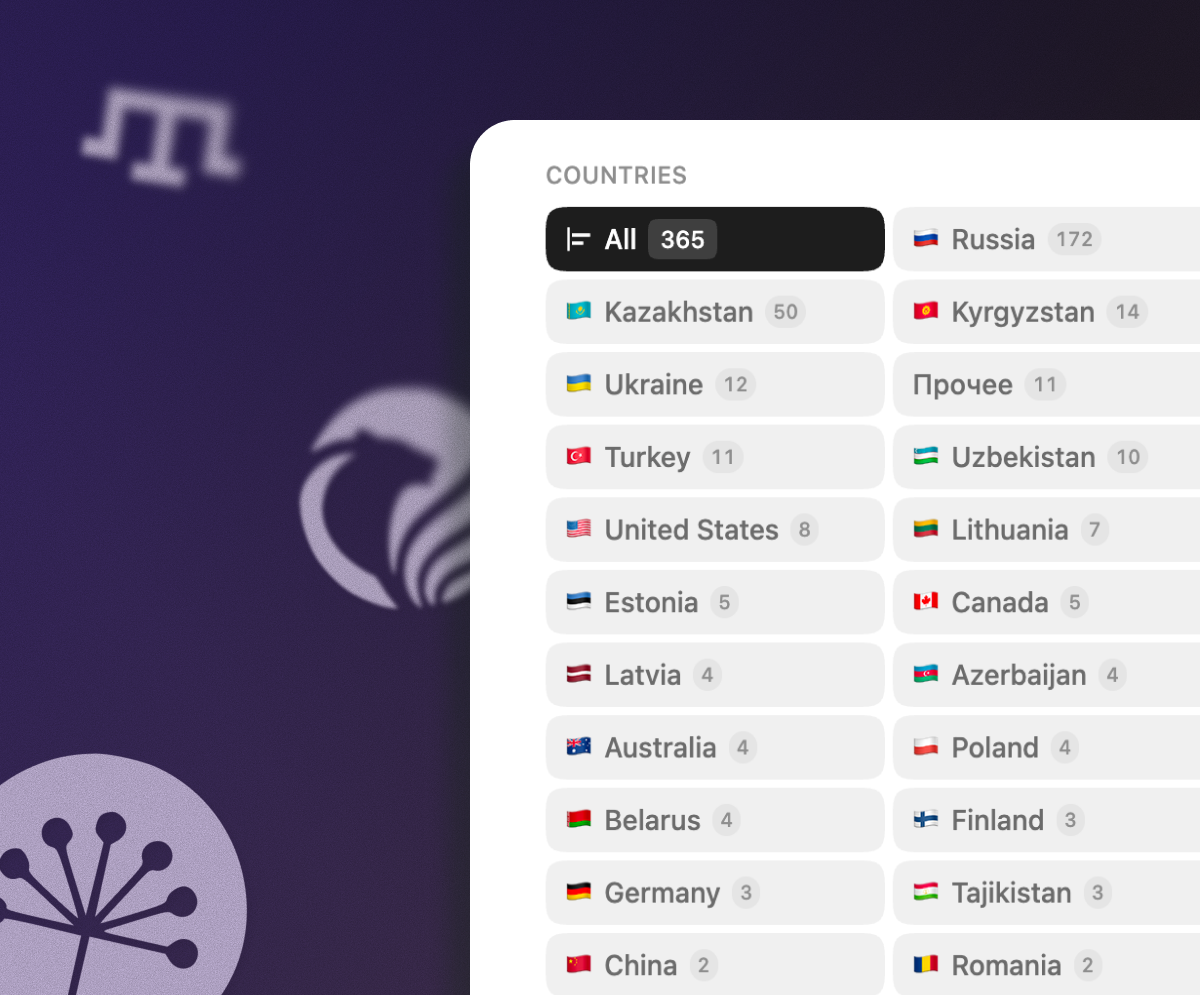
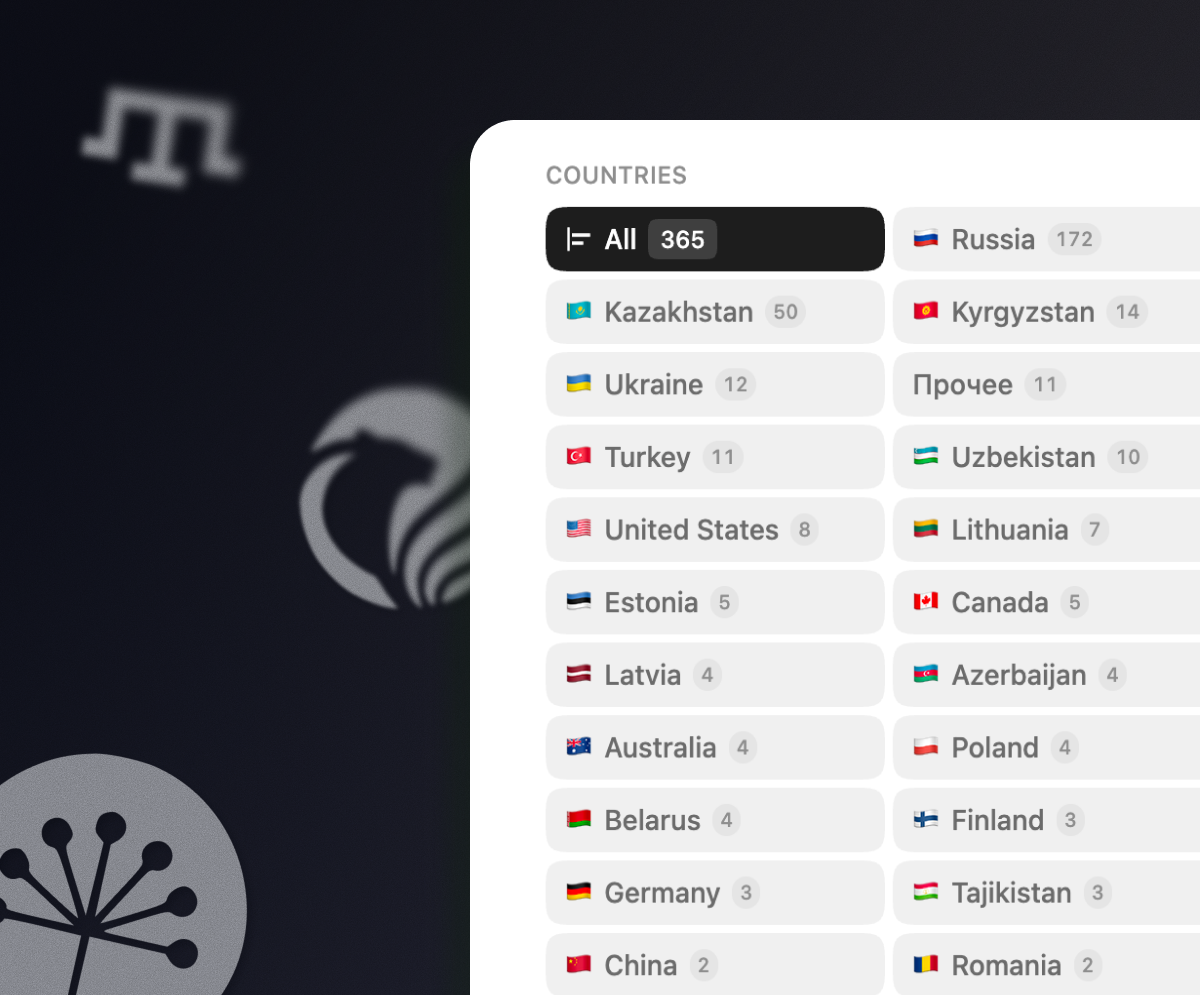
feat(home): тёмная тема по умолчанию, градиентная главная кнопка, тише моушен
Дефолт темы - dark вместо system: тёмная бумага с тинтом акцента это основной
вид сайта, и первый заход должен показывать его. Поправлены все три места,
где дефолт был записан: инлайн-скрипт в Layout, readTheme в appearance.ts и
запасной theme-color без JS. Манифест PWA переведён на тот же #0e1310 -
иначе установленное приложение открывалось бы светлым.

Главная кнопка «Посмотреть центры» - новый вариант ButtonLink `gradient`.
Градиент выводится из акцента, поэтому он свой у каждого из шести пресетов,
а правило одно. Второй конец не accent-vivid: тот дисплейный, ему хватает
3:1, и белый текст на нём падал до 3.35:1 в зелёном. Вместо этого акцент
уходит от собственного текста - углубляется тенью в светлой теме и
подсвечивается в тёмной. Худшая точка градиента 4.81:1 при пороге 4.5,
проверено по шести пресетам в обеих темах.

Кольцо карточки больше не переливается: угол зафиксирован на 135deg, свет
падает сверху слева как у теней. Удалены @property --card-ring-angle,
кейфреймы card-ring-spin и обе оговорки про моушен - тумблер и
prefers-reduced-motion кольцо теперь не прячут, двигаться в нём нечему,
а цвет и форму тумблер по общему правилу оставляет.

Из трёх слов второй строки героя дрейфует только «Культура.». «Язык.» и
«Люди.» получили тот же градиент неподвижным и позицию 50%, чтобы он стоял
по центру, а не обрезанным краем: три дрейфующих слова рядом читались как
мерцание строки, а не как акцент на одном.
[…]

diff --git a/src/styles/tailwind.css b/src/styles/tailwind.css
@@ -195,14 +195,24 @@
   /* Мягкое неоновое «дыхание»: ореол вокруг букв плавно ярче/тусклее.
      drop-shadow (не text-shadow) — работает по форме клипнутого градиентом
      текста. Цвет тянется из акцента, иначе ореол не переживёт смену темы. */
+  /* Дыхание акцентного слова героя. Амплитуда задана переменными, потому что
+     тёмная тема теперь дефолтная: на светлой бумаге ореол еле виден и ему
+     нужен размах, на тёмной тот же размах превращает слово в мигающую
+     вывеску. Значения для тёмной — ниже, в `.dark`. */
   @keyframes hero-pulse {
     0%,
     100% {
-      filter: drop-shadow(0 0 2px color-mix(in oklab, var(--color-accent-glow) 25%, transparent));
+      filter: drop-shadow(
+        0 0 var(--hero-pulse-min-blur, 2px)
+          color-mix(in oklab, var(--color-accent-glow) var(--hero-pulse-min, 25%), transparent)
+      );
     }
 
     50% {
-      filter: drop-shadow(0 0 10px color-mix(in oklab, var(--color-accent-glow) 65%, transparent));
+      filter: drop-shadow(
+        0 0 var(--hero-pulse-max-blur, 10px)
+          color-mix(in oklab, var(--color-accent-glow) var(--hero-pulse-max, 65%), transparent)
+      );
     }
   }
 
@@ -277,6 +287,15 @@
 
 .dark {
   color-scheme: dark;
+
+  /* Тёмная тема — дефолт сайта, и герой в ней виден сразу. Ореол вокруг
+     акцентного слова прижат: на тёмной бумаге свечение читается втрое
+     сильнее, чем на светлой, и прежние 25→65% превращали «своих» в
+     мигающую вывеску. Движение остаётся, громкость уходит. */
+  --hero-pulse-min: 12%;
+  --hero-pulse-max: 30%;
+  --hero-pulse-min-blur: 1px;
+  --hero-pulse-max-blur: 5px;
 
   /* Лестница: background 7% → muted 11% → surface 16% → surface-muted 19% → subtle 22%.
      Шаг background→surface — главный носитель глубины в тёмной теме и
@@ -506,38 +525,21 @@
    отрицательный слой всплывает поверх её заливки, а не уходит за неё.
    Маска снимает вопрос: ободок и так не залезает внутрь.
 
-   Кольцо горит всегда, дуга бежит постоянно. Платить за это на четырёх
-   сотнях карточек разом не приходится по той же причине, по которой
-   ::before нельзя было увести за фон: `content-visibility: auto`
-   пропускает содержимое карточек за экраном, а генерируемый контент —
-   это содержимое. Перерисовываются только те карточки, что сейчас в
-   окне, — на практике меньше десятка.
+   Дуга неподвижна. Раньше она бежала по кругу шесть секунд на оборот, и
+   кольцо было анимацией; теперь угол зафиксирован на 135deg — свет падает
+   сверху слева, как у теней в светлой теме, и градиент читается как форма,
+   а не как недогрузившаяся анимация.
 
-   Громкость при этом разведена. В покое дуга идёт по тихой заливке в 8%
-   акцента, и четыре сотни колец не превращаются в ковёр; под курсором
-   тот же градиент берёт полный акцент и `accent-glow`. Сигнал остаётся
-   сигналом, а рамка в покое читается как форма, а не как выделение.
+   Громкость разведена. В покое дуга идёт по тихой заливке в 8% акцента, и
+   четыре сотни колец не превращаются в ковёр; под курсором тот же градиент
+   берёт полный акцент и `accent-glow`. Сигнал остаётся сигналом.
 
    Фокус кольцо не трогает: на него есть единый рецепт сайта (outline
    акцентом), и два кольца разом читались бы как ошибка.
 
-   При `[data-motion="off"]` кольца нет вовсе — это исключение из общего
-   правила тумблера, который обычно только останавливает движение и
-   оставляет цвет. Здесь остановить нечего: смысл кольца — бегущая дуга,
-   а замерший на случайном угле градиент читается не как решение, а как
-   недогрузившаяся анимация. */
-@property --card-ring-angle {
-  syntax: "<angle>";
-  inherits: false;
-  initial-value: 0deg;
-}
-
-@keyframes card-ring-spin {
-  to {
-    --card-ring-angle: 360deg;
-  }
-}
-
+   Тумблер анимаций и `prefers-reduced-motion` кольцо больше не убирают:
+   двигаться в нём нечему, а статичная рамка — это цвет и форма, которые
+   тумблер по общему правилу оставляет на месте. */
 @utility card-ring {
   position: relative;
 
@@ -551,14 +553,13 @@
     corner-shape: inherit;
     pointer-events: none;
     background: conic-gradient(
-      from var(--card-ring-angle),
+      from 135deg,
       var(--color-accent) 0deg,
       color-mix(in oklab, var(--color-accent) 32%, transparent) 60deg,
       color-mix(in oklab, var(--color-accent) 8%, transparent) 150deg,
       color-mix(in oklab, var(--color-accent) 8%, transparent) 290deg,
       var(--color-accent) 360deg
     );
-    animation: card-ring-spin 6s linear infinite;
     -webkit-mask:
       linear-gradient(#000 0 0) content-box,
       linear-gradient(#000 0 0);
@@ -571,7 +572,7 @@
 
   &:hover::before {
     background: conic-gradient(
-      from var(--card-ring-angle),
+      from 135deg,
       var(--color-accent-glow) 0deg,
       var(--color-accent) 55deg,
       color-mix(in oklab, var(--color-accent) 20%, transparent) 150deg,
@@ -580,17 +581,6 @@
     );
   }
 
-  /* Тумблер анимаций и системная просьба о меньшем движении убирают кольцо
-     целиком, а не останавливают дугу: без движения оно теряет смысл. */
-  [data-motion="off"] &::before {
-    display: none;
-  }
-
-  @media (prefers-reduced-motion: reduce) {
-    &::before {
-      display: none;
-    }
-  }
 }
 
 /* ─── Подъём над плоскостью ───────────────────────────────────────────────
@@ -610,6 +600,46 @@
      содержимым, которое перекроет хайрлайн.
    overlay-lift — то, что висит над страницей (меню, поповеры). Здесь inset
      нужен: он очерчивает верхнюю грань панели и в тёмной теме заменяет тень. */
+/* Главная кнопка главной страницы. Градиент выводится из акцента, поэтому он
+   свой у каждого из шести пресетов, а правило одно.
+
+   Второй конец не `accent-vivid`: тот дисплейный, ему по WCAG хватает 3:1, и
+   на нём `accent-foreground` падал до 3.35:1 в зелёном. Вместо этого акцент
+   уводится от собственного текста: в светлой теме углубляется тенью, в
+   тёмной — подсвечивается. Худшая точка градиента 4.81:1 при пороге 4.5,
+   проверено по всем шести пресетам в обеих темах. */
+@utility btn-gradient {
+  background-image: linear-gradient(
+    135deg,
+    var(--color-accent),
+    color-mix(in oklab, var(--color-accent) 88%, var(--color-shade))
+  );
+
+  &:hover {
+    background-image: linear-gradient(
+      135deg,
+      color-mix(in oklab, var(--color-accent) 92%, var(--color-shade)),
+      color-mix(in oklab, var(--color-accent) 80%, var(--color-shade))
+    );
+  }
+
+  @variant dark {
+    background-image: linear-gradient(
+      135deg,
+      var(--color-accent),
+      color-mix(in oklab, var(--color-accent) 88%, var(--color-lift))
+    );
+
+    &:hover {
+      background-image: linear-gradient(
+        135deg,
+        color-mix(in oklab, var(--color-accent) 92%, var(--color-lift)),
+        color-mix(in oklab, var(--color-accent) 80%, var(--color-lift))
+      );
+    }
+  }
+}
+
 @utility surface-lift {
   box-shadow:
     0 1px 2px 0 color-mix(in oklab, var(--color-shade) 6%, transparent),

diff --git a/src/utils/pwaSettings.ts b/src/utils/pwaSettings.ts
@@ -51,11 +51,12 @@ export const manifest = {
 	short_name: "tatarverse",
 	description: config.site.OG.description,
 	// Манифест — одно статическое значение на все шесть акцентов и обе темы,
-	// поэтому здесь светлая палитра как дефолт: --color-background 97.5%.
-	// Прежний #080214 был фиолетово-чёрным и не совпадал ни с одним пресетом,
-	// а #fafafa — со светлым фоном, который тогда был чистым белым.
-	theme_color: "#f9f9f9",
-	background_color: "#f9f9f9",
+	// поэтому здесь дефолтный вид: тёмная бумага пресета green, тонированная
+	// в hue 142 (--color-background тёмной темы). Значение должно совпадать с
+	// запасным theme-color в Layout.astro — иначе установленное приложение и
+	// первый кадр сайта откроются разным цветом.
+	theme_color: "#0e1310",
+	background_color: "#0e1310",
 	display: "standalone",
 	orientation: "portrait",
 	start_url: "/",

diff --git a/src/scripts/appearance.ts b/src/scripts/appearance.ts
@@ -43,7 +43,9 @@ const writeStorage = (key: string, value: string) => {
 
 const readTheme = () => {
 	const value = readStorage(THEME_KEY);
-	return THEMES.includes(value) ? value : "system";
+	// Дефолт — тёмная, а не системная: тёмная бумага с тинтом акцента это
+	// основной вид сайта, и первый заход должен показывать именно его.
+	return THEMES.includes(value) ? value : "dark";
 };
 
 const readAccent = () => {
@@ -150,7 +152,7 @@ export function initAppearance() {
 
 		const themeOption = target.closest<HTMLElement>("[data-theme-option]");
 		if (themeOption) {
-			setTheme(themeOption.dataset.themeOption ?? "system");
+			setTheme(themeOption.dataset.themeOption ?? "dark");
 			return;
 		}
 
